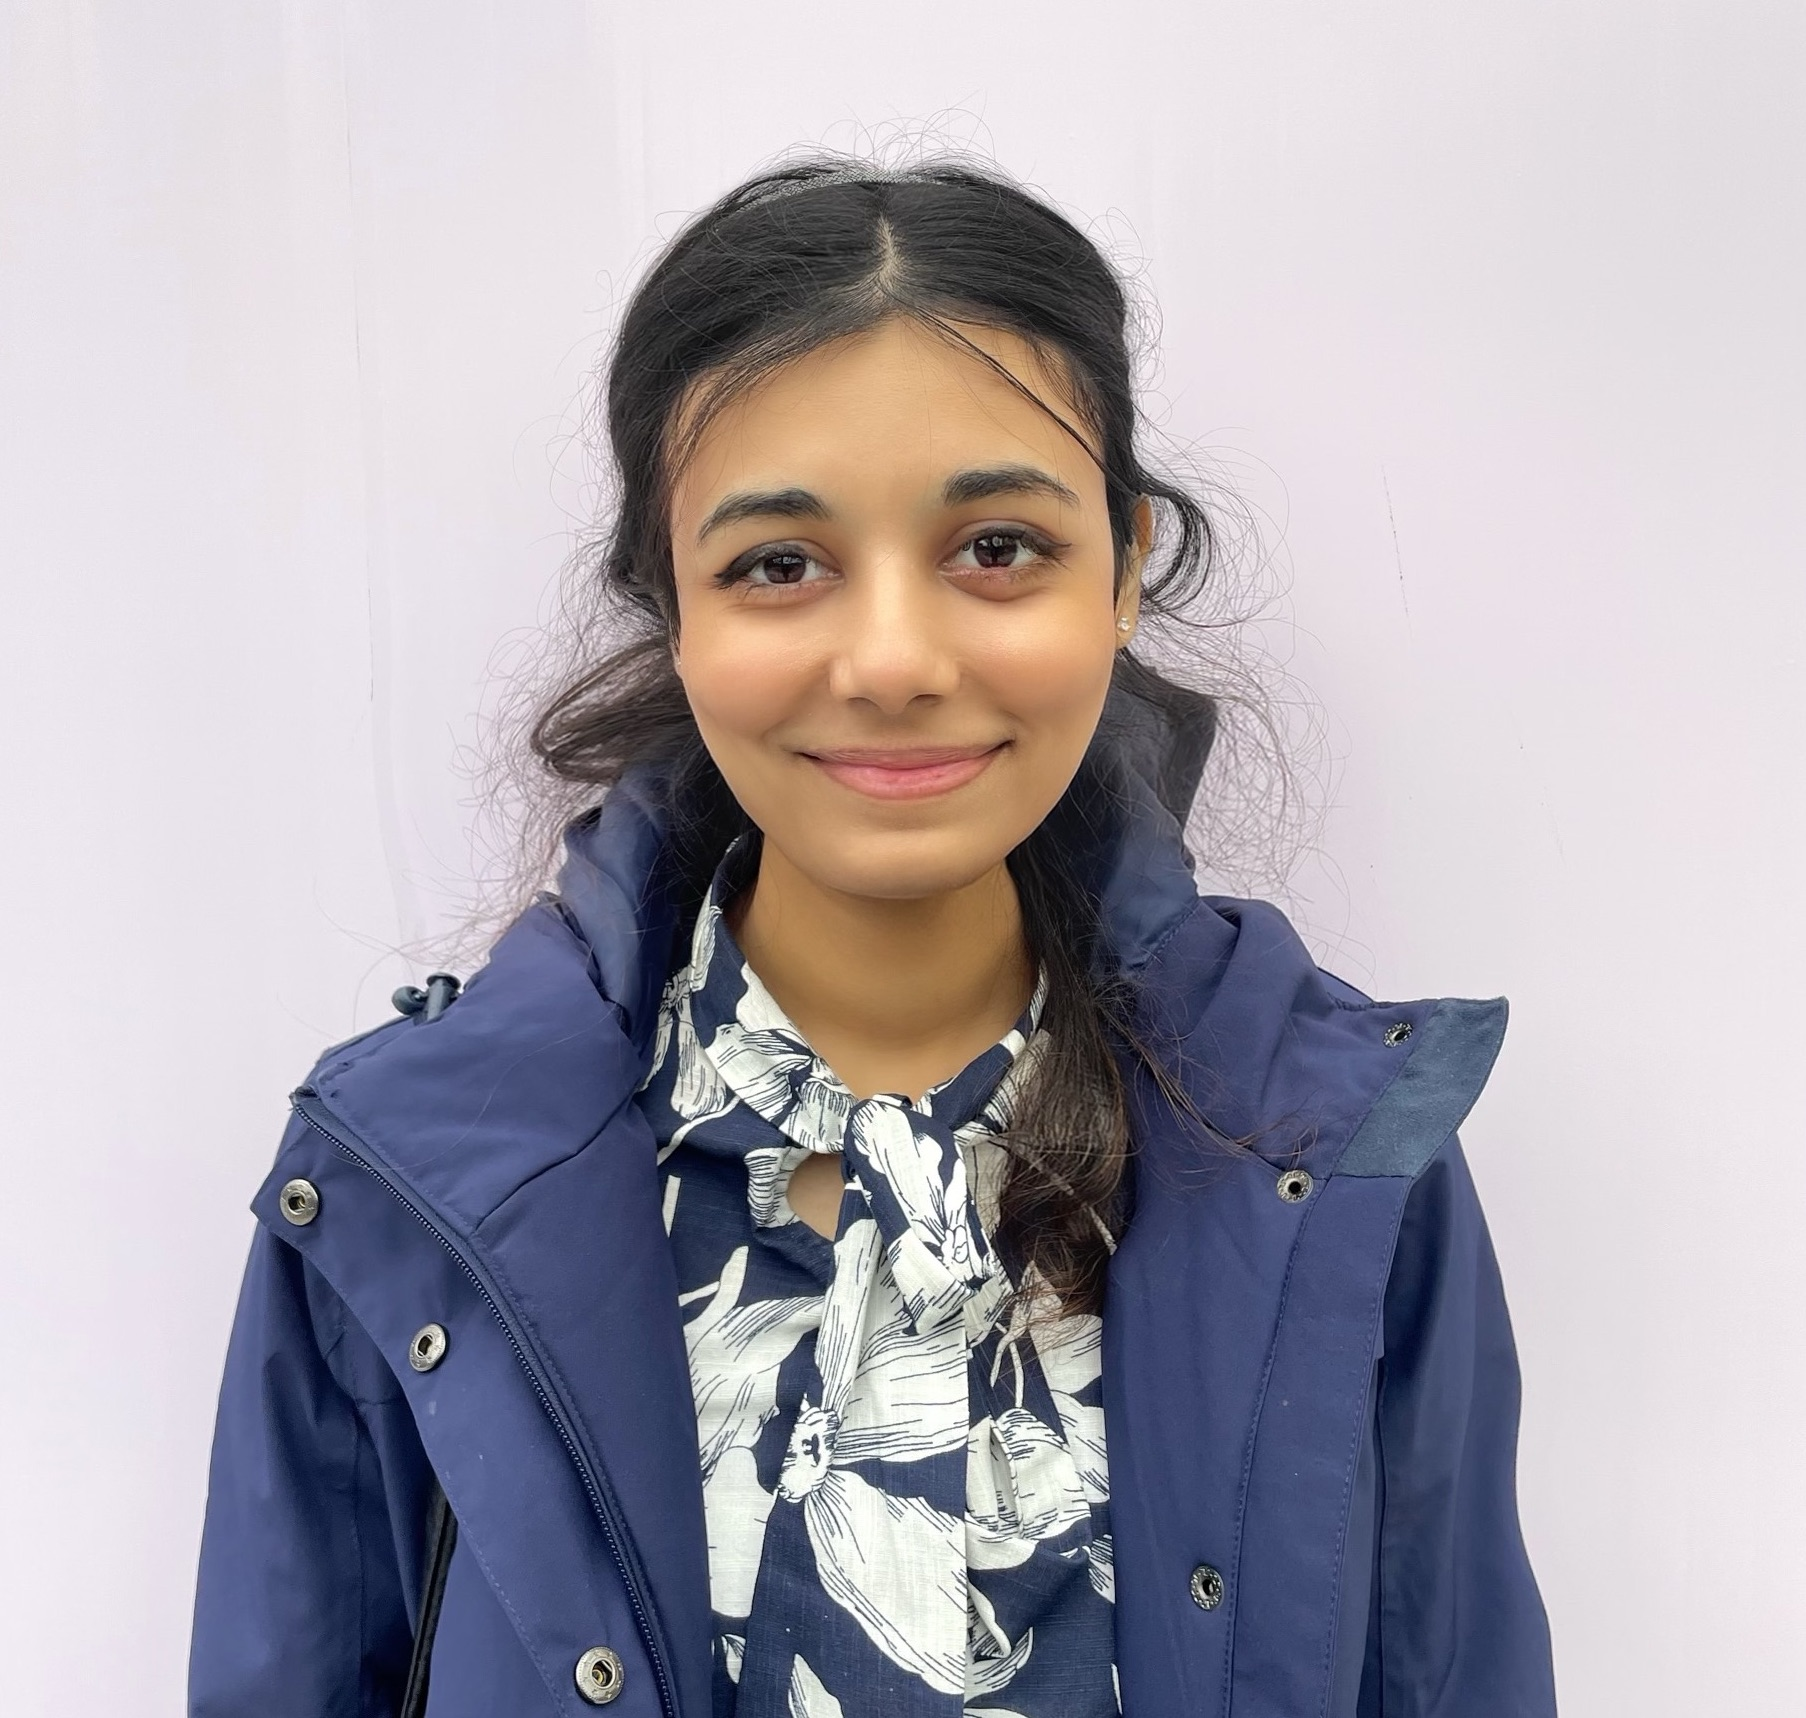
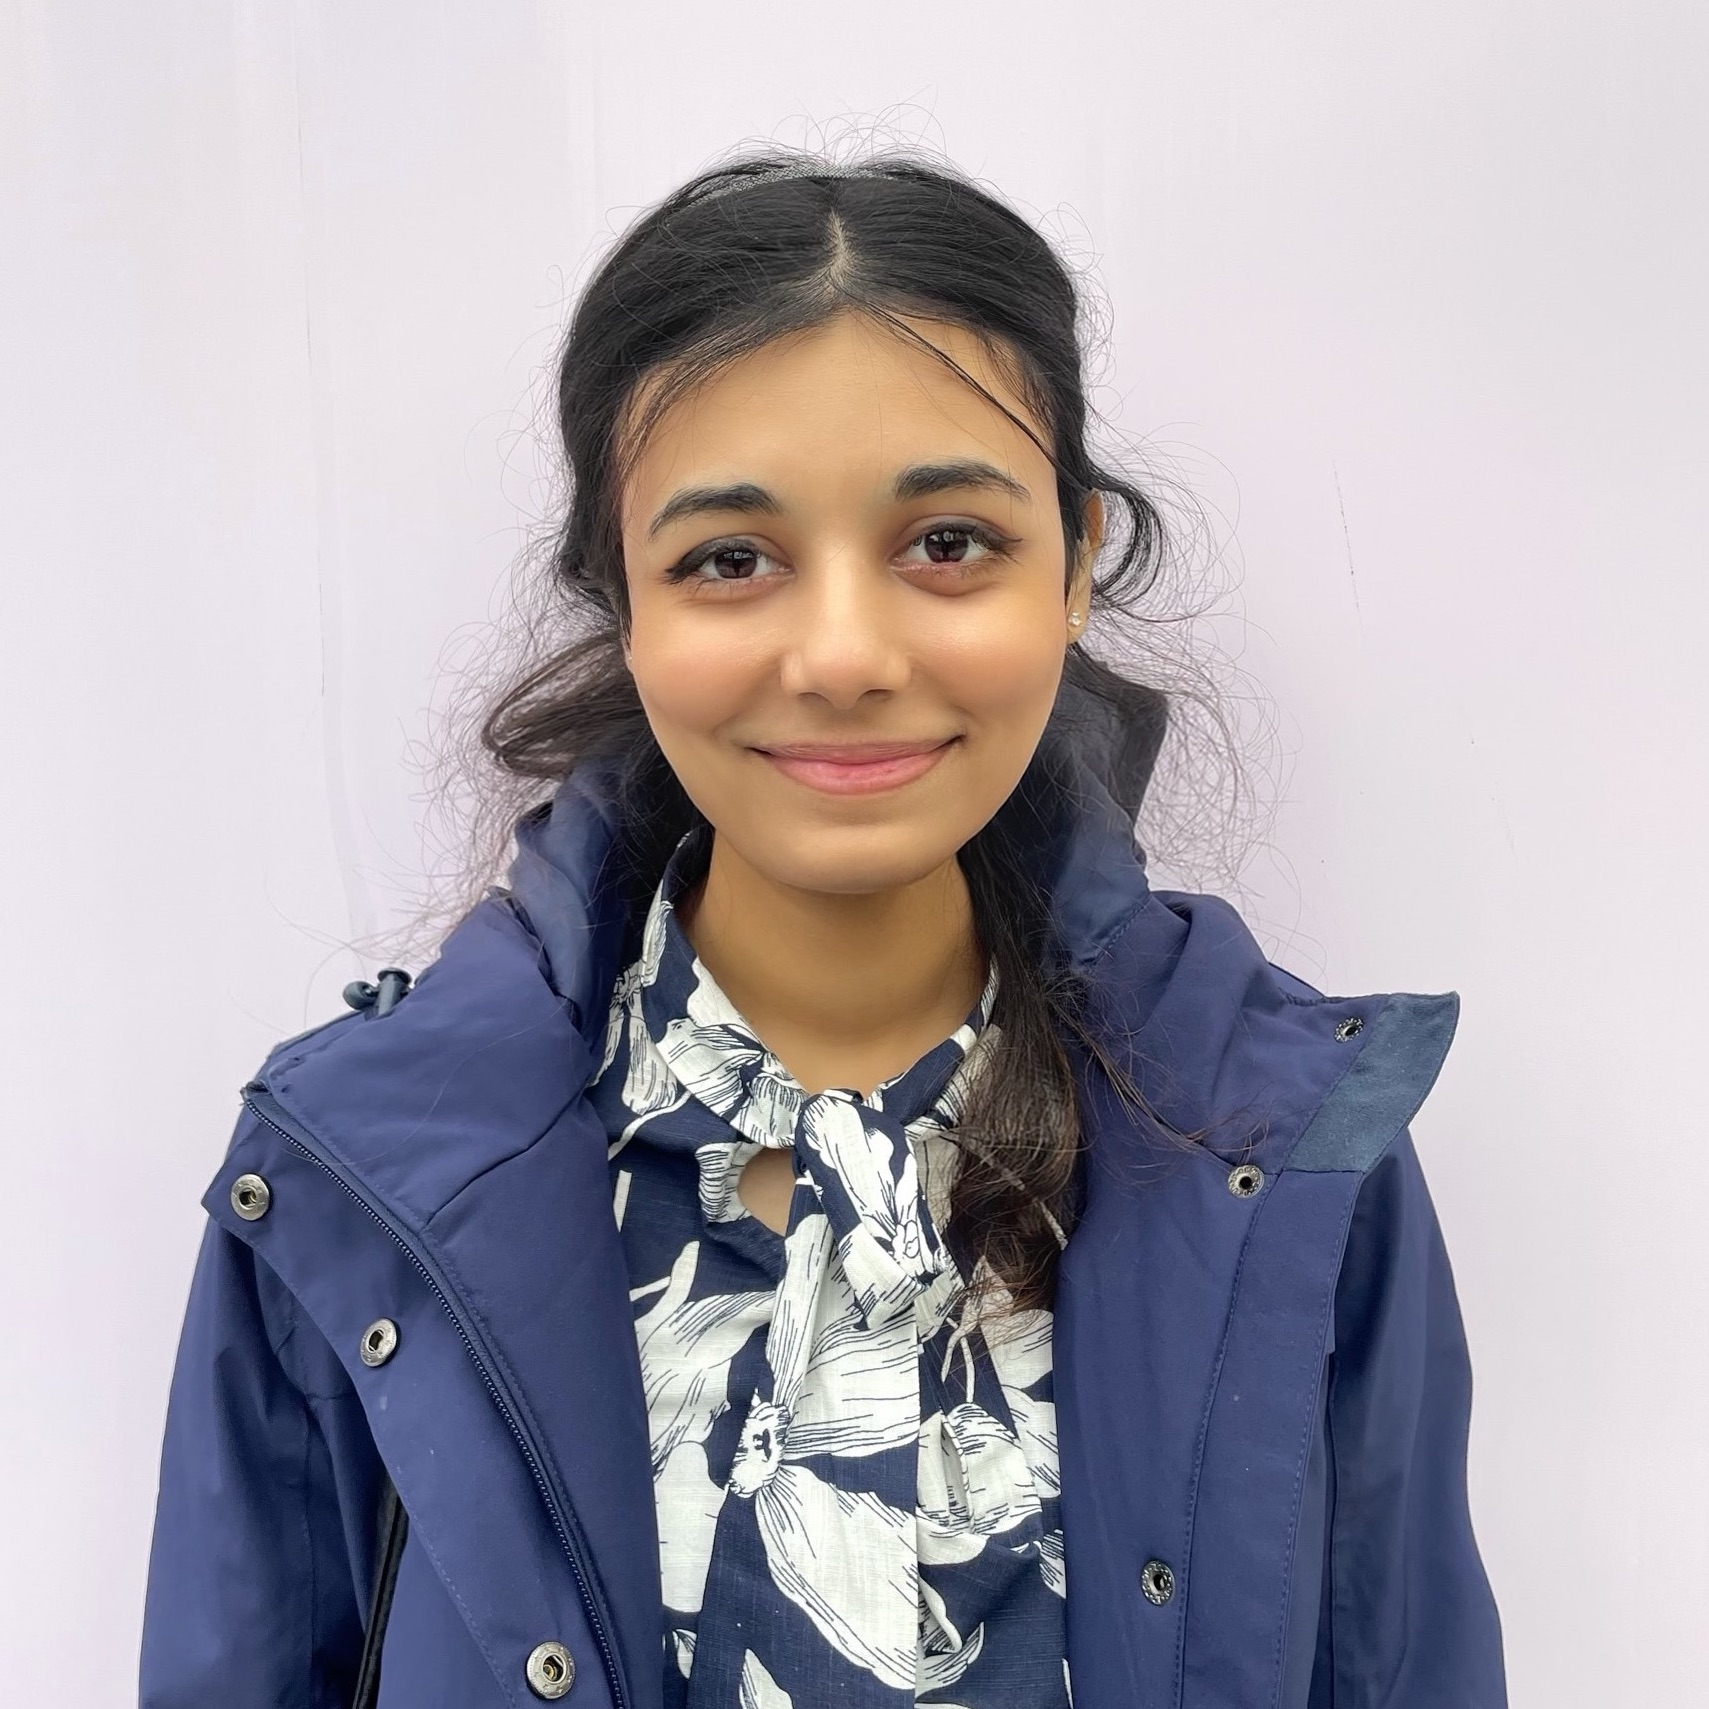
all profile pictures are square sized

Changed region(s): [[0.062, 0.062, 0.8994, 1.0]]

diff --git a/css/customstyle.css b/css/customstyle.css
@@ -125,8 +125,10 @@ h1 {
   }
   .profile img {
     height: 9.6rem;
+    width: 9.6rem;
     display: block;
     margin-left: -0.05rem;
+    object-fit: cover;
   }
   .card {
     border: .2rem solid #efefef !important;

diff --git a/README.md b/README.md
@@ -29,10 +29,10 @@ How embarrassing would it be to have a broken web site?
 # How to ...
 
 ## Add yourself as a new student
-1. Add a picture to `assets/images/profiles` (convention is firstname.jpg, but at some point we'll have a name conflict; do something sensible).
+1. Add a **square sized** picture to `assets/images/profiles` (convention is firstname.jpg, but at some point we'll have a name conflict; do something sensible).
 2. Edit the file `_data/people.yml`. Find the right category and follow the formatting (described below) to add yourself.
 3. Check that everything looks good on your local installation (it should update automatically when you add/edit things; just reload pages).
-4. `git add` your image, `git commit` everything, and `git push`.
+4. `git add` your changes, `git commit` everything, and `git push`.
 
 ## When you graduate
 1. Add yourself to `_data/alumni.yml`
